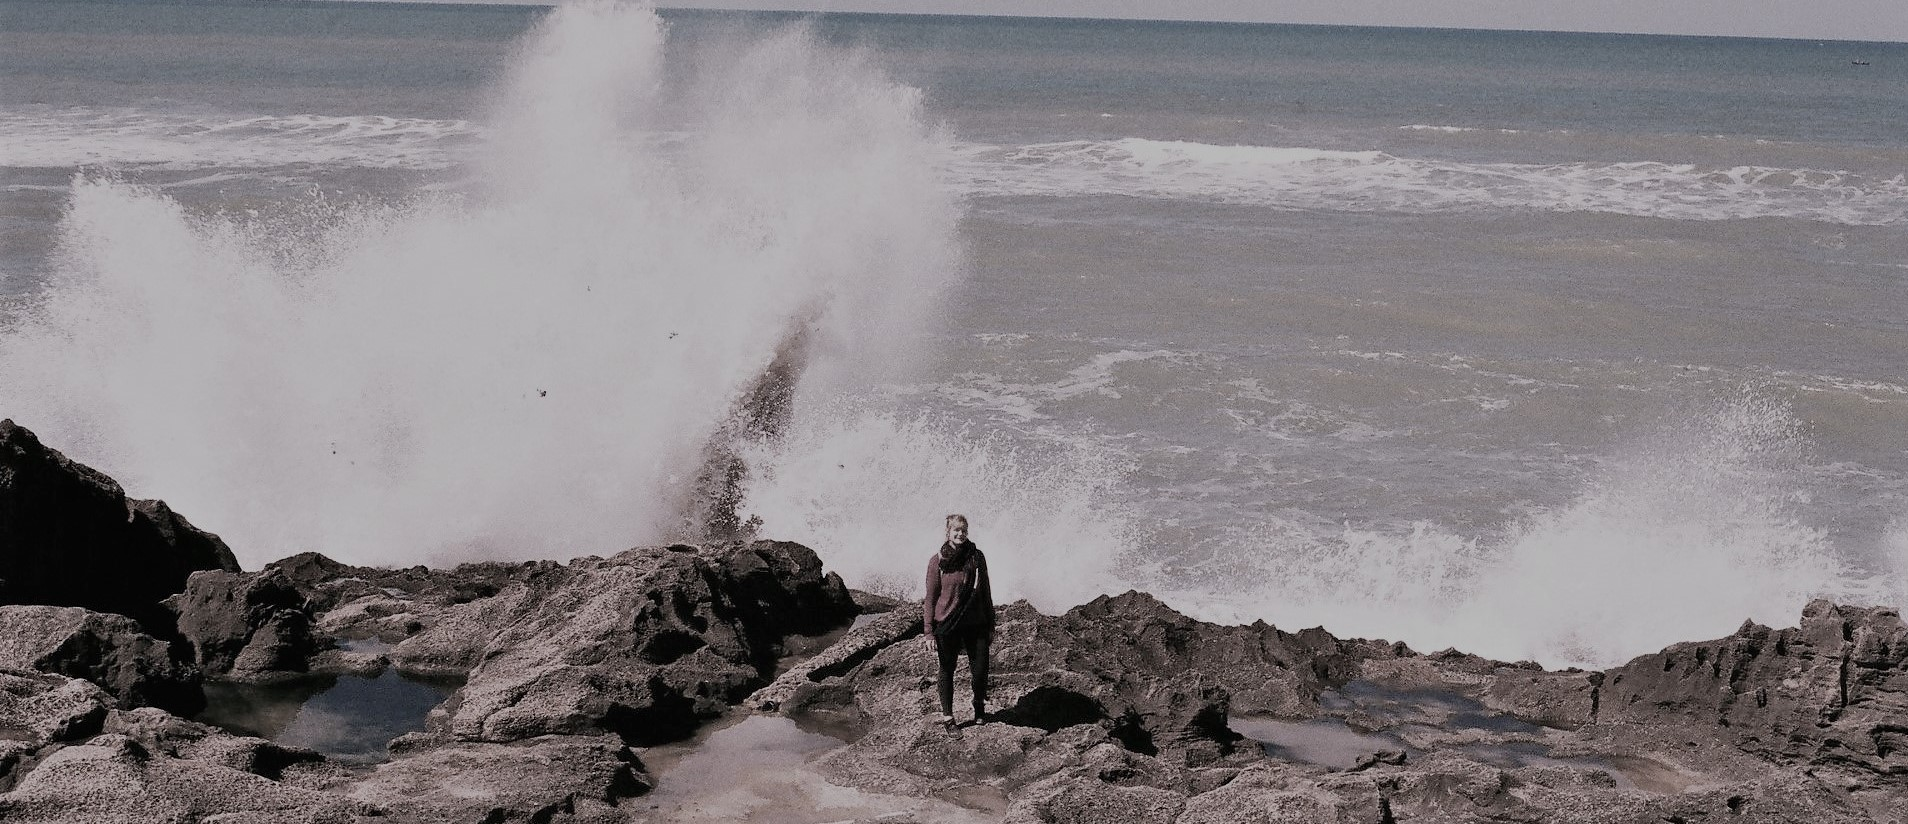
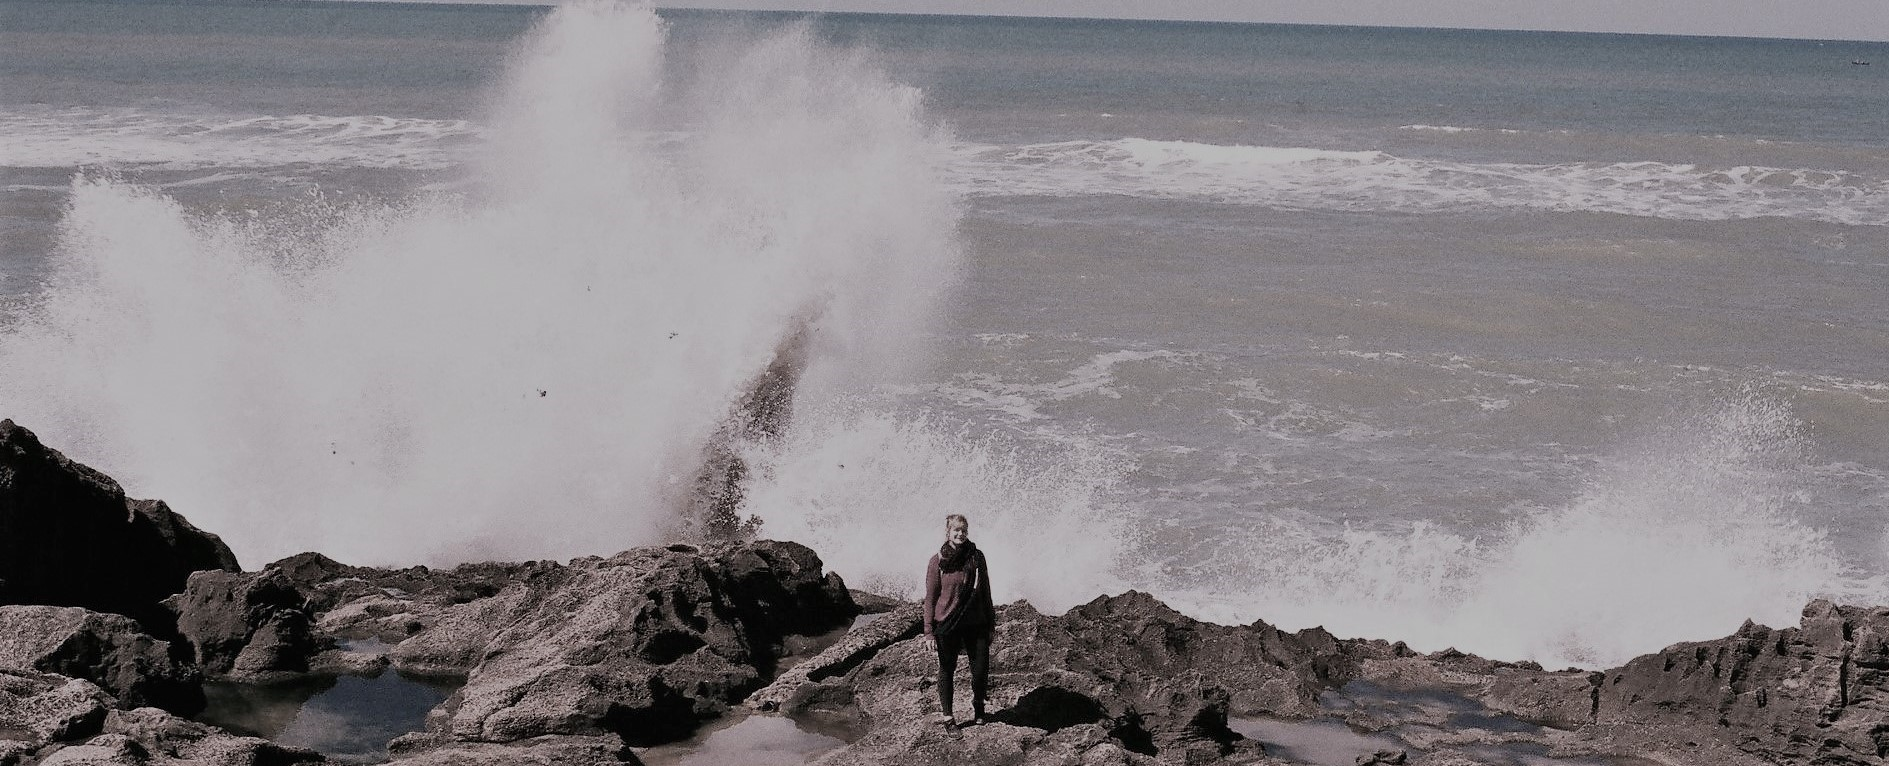
crop

diff --git a/index.html b/index.html
@@ -8,10 +8,6 @@
   text-align: center;
   color: white;
 }
-.container {
-  width: 10%;
-  height: 5%
-}
 
 .centered {
   position: absolute;
@@ -26,7 +22,7 @@ div.centered {
 </head>
 <body>
 <div class="container">
-  <img src="ocean.jpg" alt="ocean">
+  <img src="ocean.jpg" alt="ocean" style="width:100%; height:80%;">
   <div class="centered">Bailey J. Anderson</div>
 </div>
 
